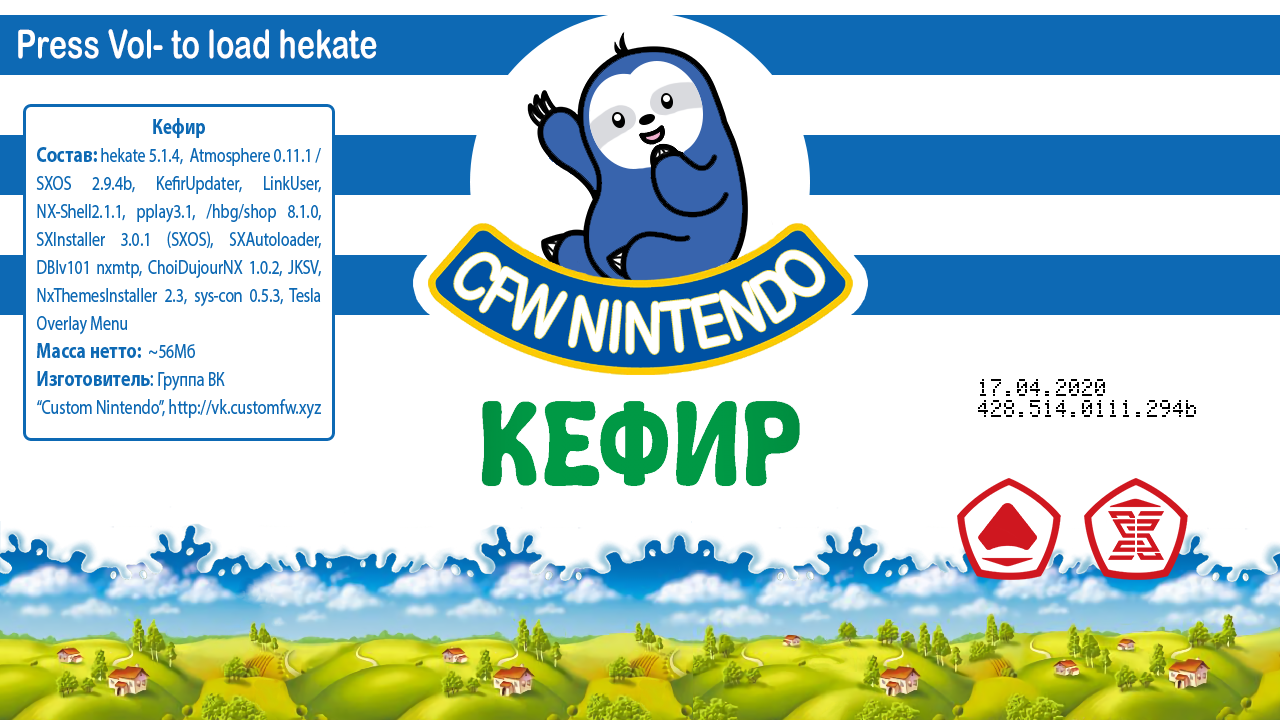
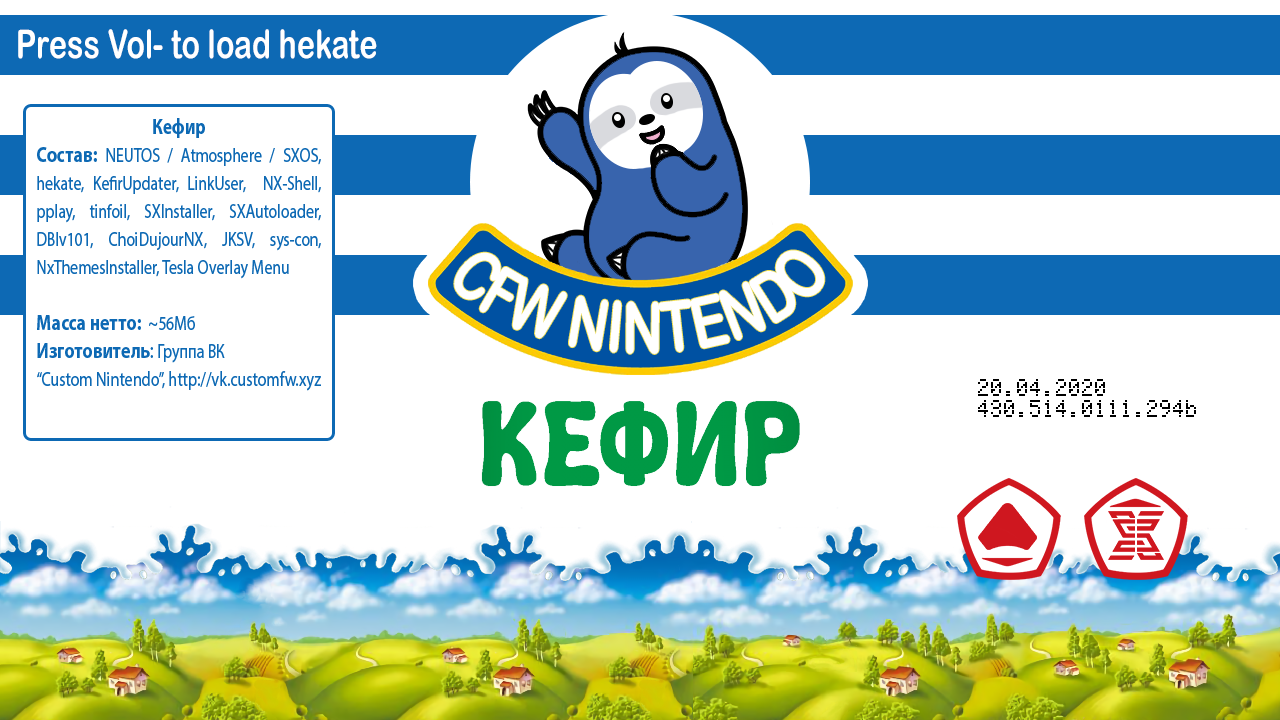
kefir430

Changed region(s): [[0.0312, 0.1833, 0.25, 0.5806], [0.75, 0.5194, 0.7812, 0.55]]

diff --git a/_pages/kefir.md b/_pages/kefir.md
@@ -37,7 +37,7 @@ ____
   * [Lockpick_RCM](https://github.com/shchmue/Lockpick_RCM/releases/latest){:target="_blank"} - программа для [дампа ключей приставки](backup-nand#часть-iii---дампим-ключи){:target="_blank"}
   * [Incognoto_RCM](https://github.com/borntohonk/Incognito_RCM/releases/){:target="_blank"} - программа, стирающая серийный номер приставки, чтобы [заблокировать обновления и спрятать консоль от Nintendo](https://switch.customfw.xyz/block-update){:target="_blank"}
   * [pplay](https://github.com/Cpasjuste/pplay/releases/latest){:target="_blank"} - видеоплеер 
-  * [{% include /inc/tinfoil.txt %}](https://discord.gg/qxdYtrJ){:target="_blank"} - программа, позволяющая [качать игры](tinfoil){:target="_blank"} для приставки прямо из сети 
+  * [{% include /inc/tinfoil.txt %}](https://discord.gg/X3Q9tM){:target="_blank"} - программа, позволяющая [качать игры](tinfoil){:target="_blank"} для приставки прямо из сети 
   * [ChoiDujourNX ](https://switchtools.sshnuke.net/){:target="_blank"} - программа для [безопасного обновления](update-to-latest){:target="_blank"} версии системного ПО приставки
   * [NXThemes Installer](https://github.com/exelix11/SwitchThemeInjector/releases/latest){:target="_blank"} - менеджер кастомных тем 
   * DBI - программа для [установки игр](games){:target="_blank"} по USB или с карты памяти
